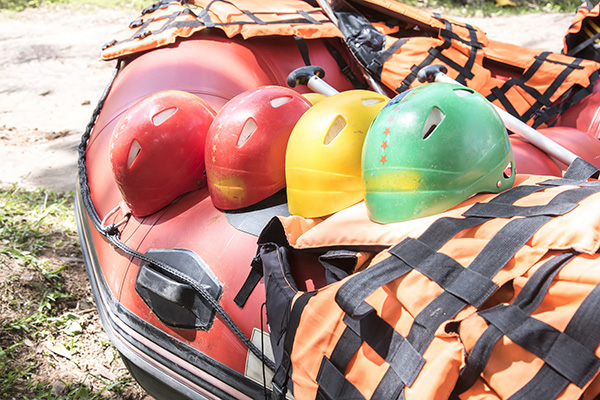
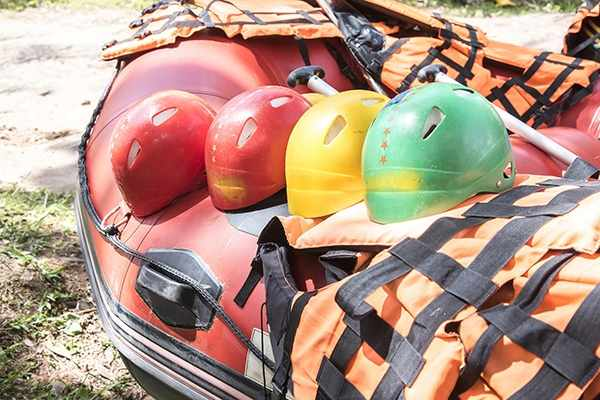
Home Page Layout Enhancements

diff --git a/wwr/about.html b/wwr/about.html
@@ -40,7 +40,7 @@
                     ut
                     incidunt velit! Recusandae odit veniam, perferendis quod assumenda quisquam.
                     Excepturi labore, fugit laboriosam neque incidunt dolorum?...</p>
-                <img src="images/rafting_history .jpg" alt="Rafting History Image">
+                <img src="images/rafting_history.jpg" alt="Rafting History Image">
                 <p>Lorem ipsum dolor sit amet consectetur adipisicing elit. Cum, unde tempora id ad
                     ut
                     incidunt velit! Recusandae odit veniam, perferendis quod assumenda quisquam.
@@ -63,7 +63,7 @@
                     <figcaption>Half Day Adventure</figcaption>
                 </figure>
                 <figure>
-                    <img src="images/rapidos_de_la_cascada.jpg" alt="Rapidos de la Cascada">
+                    <img src="images/rapidos_en_la_cascada.jpg" alt="Rapidos de la Cascada">
                     <figcaption>Rapidos de la Cascada</figcaption>
                 </figure>
                 <figure>

diff --git a/styles/styles.css b/styles/styles.css
@@ -6,7 +6,7 @@
 
 nav {
     background-color: darkblue;
-    padding: 10px;
+    padding: 1 rem;
     display: flex;
     justify-content: space-evenly;
     align-items: center;
@@ -15,7 +15,7 @@ nav {
 nav a {
     color: white;
     display: block;
-    padding: 20px;
+    padding: 1.2rem;
     text-decoration: none;
 }
 
@@ -41,7 +41,8 @@ aside {
     width: 20rem;
     text-align: center;
     position: relative;
-
+    grid-column: 1/2;
+    grid-row: 1/2;
 }
 
 aside img {
@@ -80,6 +81,10 @@ footer {
 
 .grid {
     display: grid;
-    grid-template-columns: 1fr 2fr;
-    grid-column: 1 / 2;
+    align-items: center;
+}
+
+main {
+    grid-column: 2/3;
+    align-items: center;
 }
